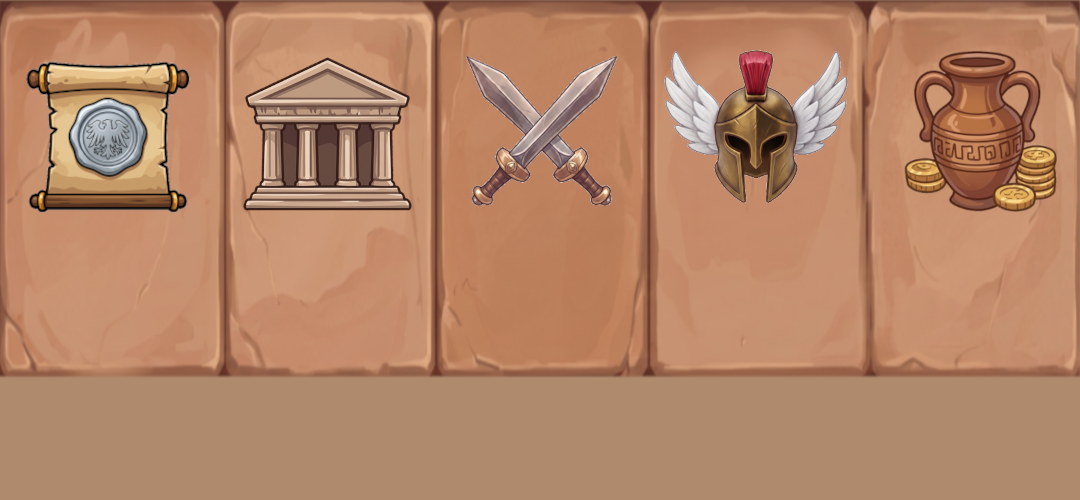
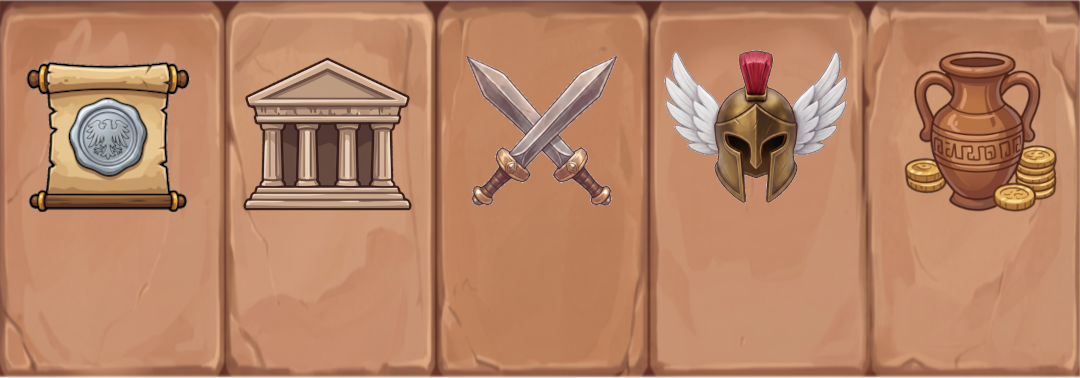
Rogne la bande transparente sous la nouvelle image d'onglets
L'image importée portait une zone transparente sous le dessin (jusqu'à
500px de haut sur 1080 de large), visible comme un vide sous la frise
une fois étirée dans TabBar (resizeMode="stretch"). Recadrée à 1080×378
en gardant uniquement le dessin opaque, dans assets/ui/ et design/, et
TAB_BAR_HEIGHT ajusté en conséquence pour que la barre colle au bord bas
de l'écran.

Claude-Session: https://claude.ai/code/session_01X4kANzPxQ85e2zZGuEGwht

diff --git a/src/ui/menu/MenuScreen.tsx b/src/ui/menu/MenuScreen.tsx
@@ -109,10 +109,15 @@ const FRAME = {
 } as const;
 
 /**
- * La barre d'onglets dessinée (`ART.onglets`, 1080 × 500) : sa hauteur en
+ * La barre d'onglets dessinée (`ART.onglets`, 1080 × 378) : sa hauteur en
  * largeurs d'écran, mesurée sur le dessin.
+ *
+ * ⚠ Le fichier source portait une bande transparente sous le dessin
+ * (jusqu'à 500 de haut) : elle a été rognée avant l'import, sinon elle se
+ * serait vue comme un vide entre la frise et le bord de l'écran, sous
+ * `resizeMode="stretch"`.
  */
-const TAB_BAR_HEIGHT = 500 / 1080;
+const TAB_BAR_HEIGHT = 378 / 1080;
 
 /**
  * L'ordre à l'écran, de gauche à droite. « Jouer » au milieu, encadré par

diff --git a/src/ui/menu/icons.ts b/src/ui/menu/icons.ts
@@ -62,8 +62,8 @@ export const ART = {
   maquette: require('../../../assets/ui/maquette.png') as ImageSourcePropType,
   /**
    * La barre d'onglets ENTIÈRE : les cinq dalles, icône et libellé compris,
-   * dans l'ordre du ruban (1080 × 500). L'écran ne pose que les zones
-   * cliquables et la lueur de l'onglet actif.
+   * dans l'ordre du ruban (1080 × 378, rognée de sa bande transparente).
+   * L'écran ne pose que les zones cliquables et la lueur de l'onglet actif.
    */
   onglets: require('../../../assets/ui/onglets_final.png') as ImageSourcePropType,
   /** Les dunes et leur chimère, sur la carte de la course. */
